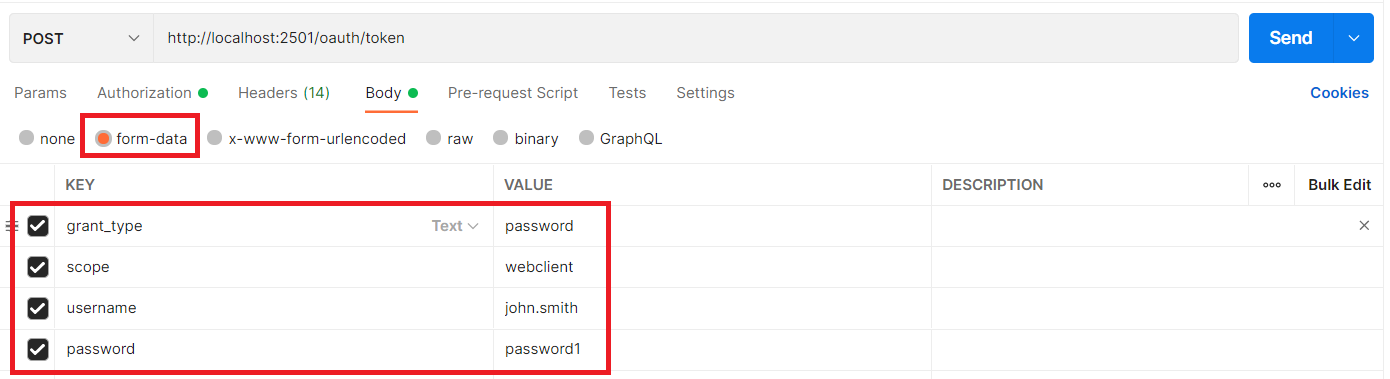
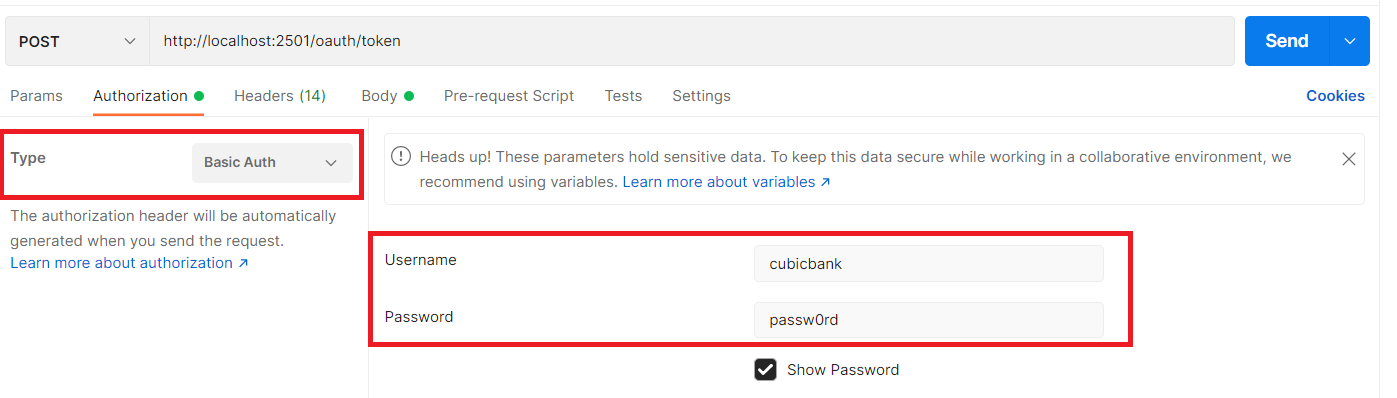
6. Securing Microservices - v3

diff --git a/README.md b/README.md
@@ -593,13 +593,36 @@ You can also observe that the access token in the log of the Customer Service.
 
 ![img_7.png](doc-images/pic6-9.png)
 
+Currently, two user credentials are set up in-memory in the Auth Server:
+
+- user #1:
+  - username: `john.smith`
+  - password: `password1`
+  - role: `USER`
+- user #2:
+  - username: `mary.poppins`
+  - password: `password2`
+  - role: `ADMIN`
+
+It is also configured in the Account Service that all authenticated users can access query APIs,
+but only users with `ADMIN` role can perform the `DELETE` operation.
+
+If you use `john.smith`'s access token to call the PUT operation on the account service
+endpoint `http://localhost:2301/api/acct-service/v1/accounts/1`, you will get `403 Forbidden`
+error, with the error message of "Access is denied" in the response, as shown below.
+
+![img.png](doc-images/pic6-10.png)
+
+However, if you use `mary.poppins`'s access token to call the PUT operation on the same service
+endpoint, it will run successfully.
+
 ### Sub-package 6-2: Implementation of OAuth2 with JWT Tokens
 
 To build and run all services inside this sub-package, execute the following command:
 
 ```windows
 C:spring-cloud> cd "6. Securing Microservices"
-C:spring-cloud> build_and_run_oauth2.bat
+C:spring-cloud> build_and_run_oauth2_jwt.bat
 ```
 
 It will start the following servers/services:
@@ -613,7 +636,7 @@ It will start the following servers/services:
 
 You can verify that all services have been started by visit the Eureka server console at `http://localhost:2201/`.
 
-![](doc-images/pic6-10.png)
+![](doc-images/pic6-11.png)
 
 #### Authentication and Obtain the generated JWT token
 
@@ -637,15 +660,15 @@ they are configured in the Auth Server (in-memory configuration):
 For example, if you invoke the authentication service in Postman, you need to provide the
 data as shown below.
 
-![img.png](doc-images/pic6-11.png)
+![img.png](doc-images/pic6-12.png)
 
-![img_1.png](doc-images/pic6-12.png)
+![img_1.png](doc-images/pic6-13.png)
 
 In the response of the authentication service invocation, you should be able to see generated
 JWT tokens. Record the access token, which you will need in the next step to access the 
 Customer service and the Account service.
 
-![img.png](doc-images/pic6-13.png)
+![img.png](doc-images/pic6-14.png)
 
 Please note, the actual token itself isn’t directly returned as JSON. Instead, the JSON body 
 is encoded using a Base64 encoding. If you’re interested in seeing the contents of a JWT 
@@ -654,7 +677,7 @@ token, you can use online tools to decode the token.
 You can use Stormpath (http://jsonwebtoken.io), or http://jwt.io, to decode the JWT access 
 token.
 
-![img_1.png](doc-images/pic6-14.png)
+![img_1.png](doc-images/pic6-15.png)
 
 If you put the signing key in the "Verify Signature" section, it can verify the signature of
 the JWT token using the provided signing key. The signing key is specified in the 
@@ -674,7 +697,7 @@ need to add the Authorization header with the value of "`Bearer XXXXXX`", where 
 represents the access token that you obtained in the last step, and there is a space between
 the "`Bearer`" and the access token.
 
-![img_2.png](doc-images/pic6-15.png)
+![img_2.png](doc-images/pic6-16.png)
 
 #### Access Resource Servers
 
@@ -683,16 +706,16 @@ with the JWT access token, you will see both customer profile and account list a
 in the response. This means the access token was passed to both the Customer Service and the
 Account Service by the Service Gateway (Zuul server).
 
-![img_3.png](doc-images/pic6-16.png)
+![img_3.png](doc-images/pic6-17.png)
 
 You can also observe that the JWT access token in the log of the Customer Service.
 
-![img_4.png](doc-images/pic6-17.png)
+![img_4.png](doc-images/pic6-18.png)
 
 You can also observe that the extracted custom field in the JWT token in the log of the 
 Customer Service.
 
-![img_5.png](doc-images/pic6-18.png)
+![img_5.png](doc-images/pic6-19.png)
 
 ## Event-driven architecture with Spring Cloud Stream
 
